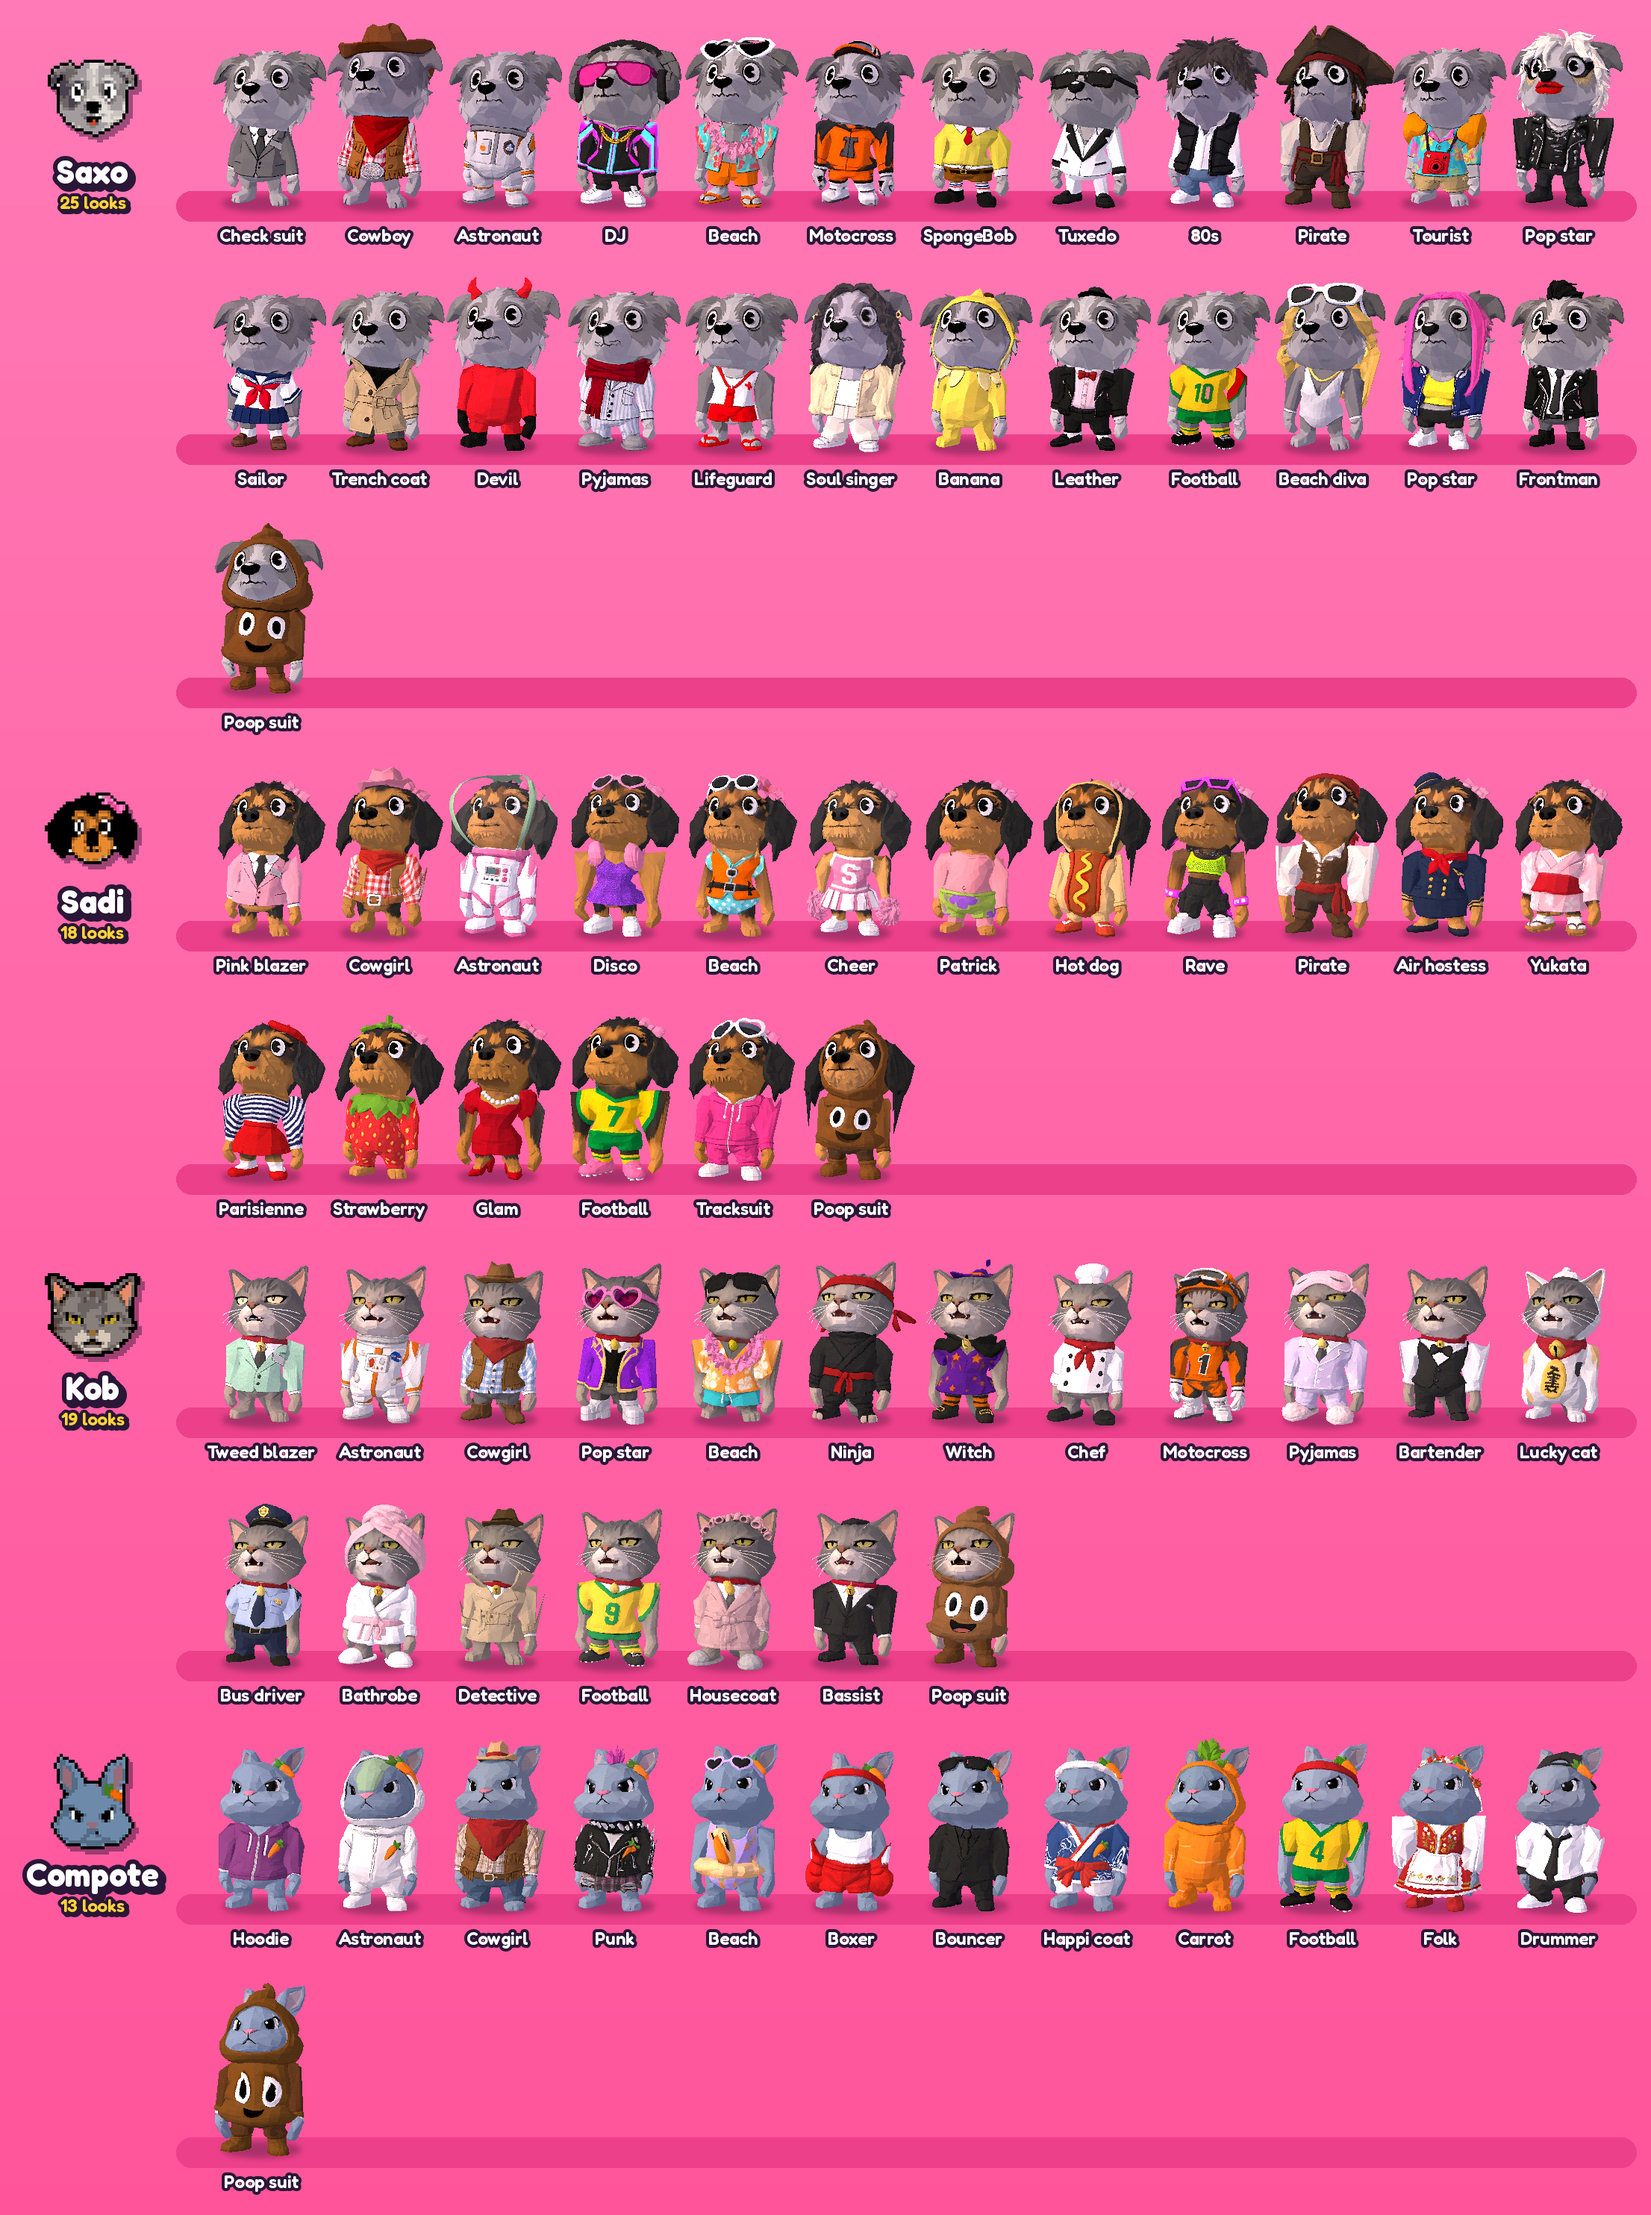
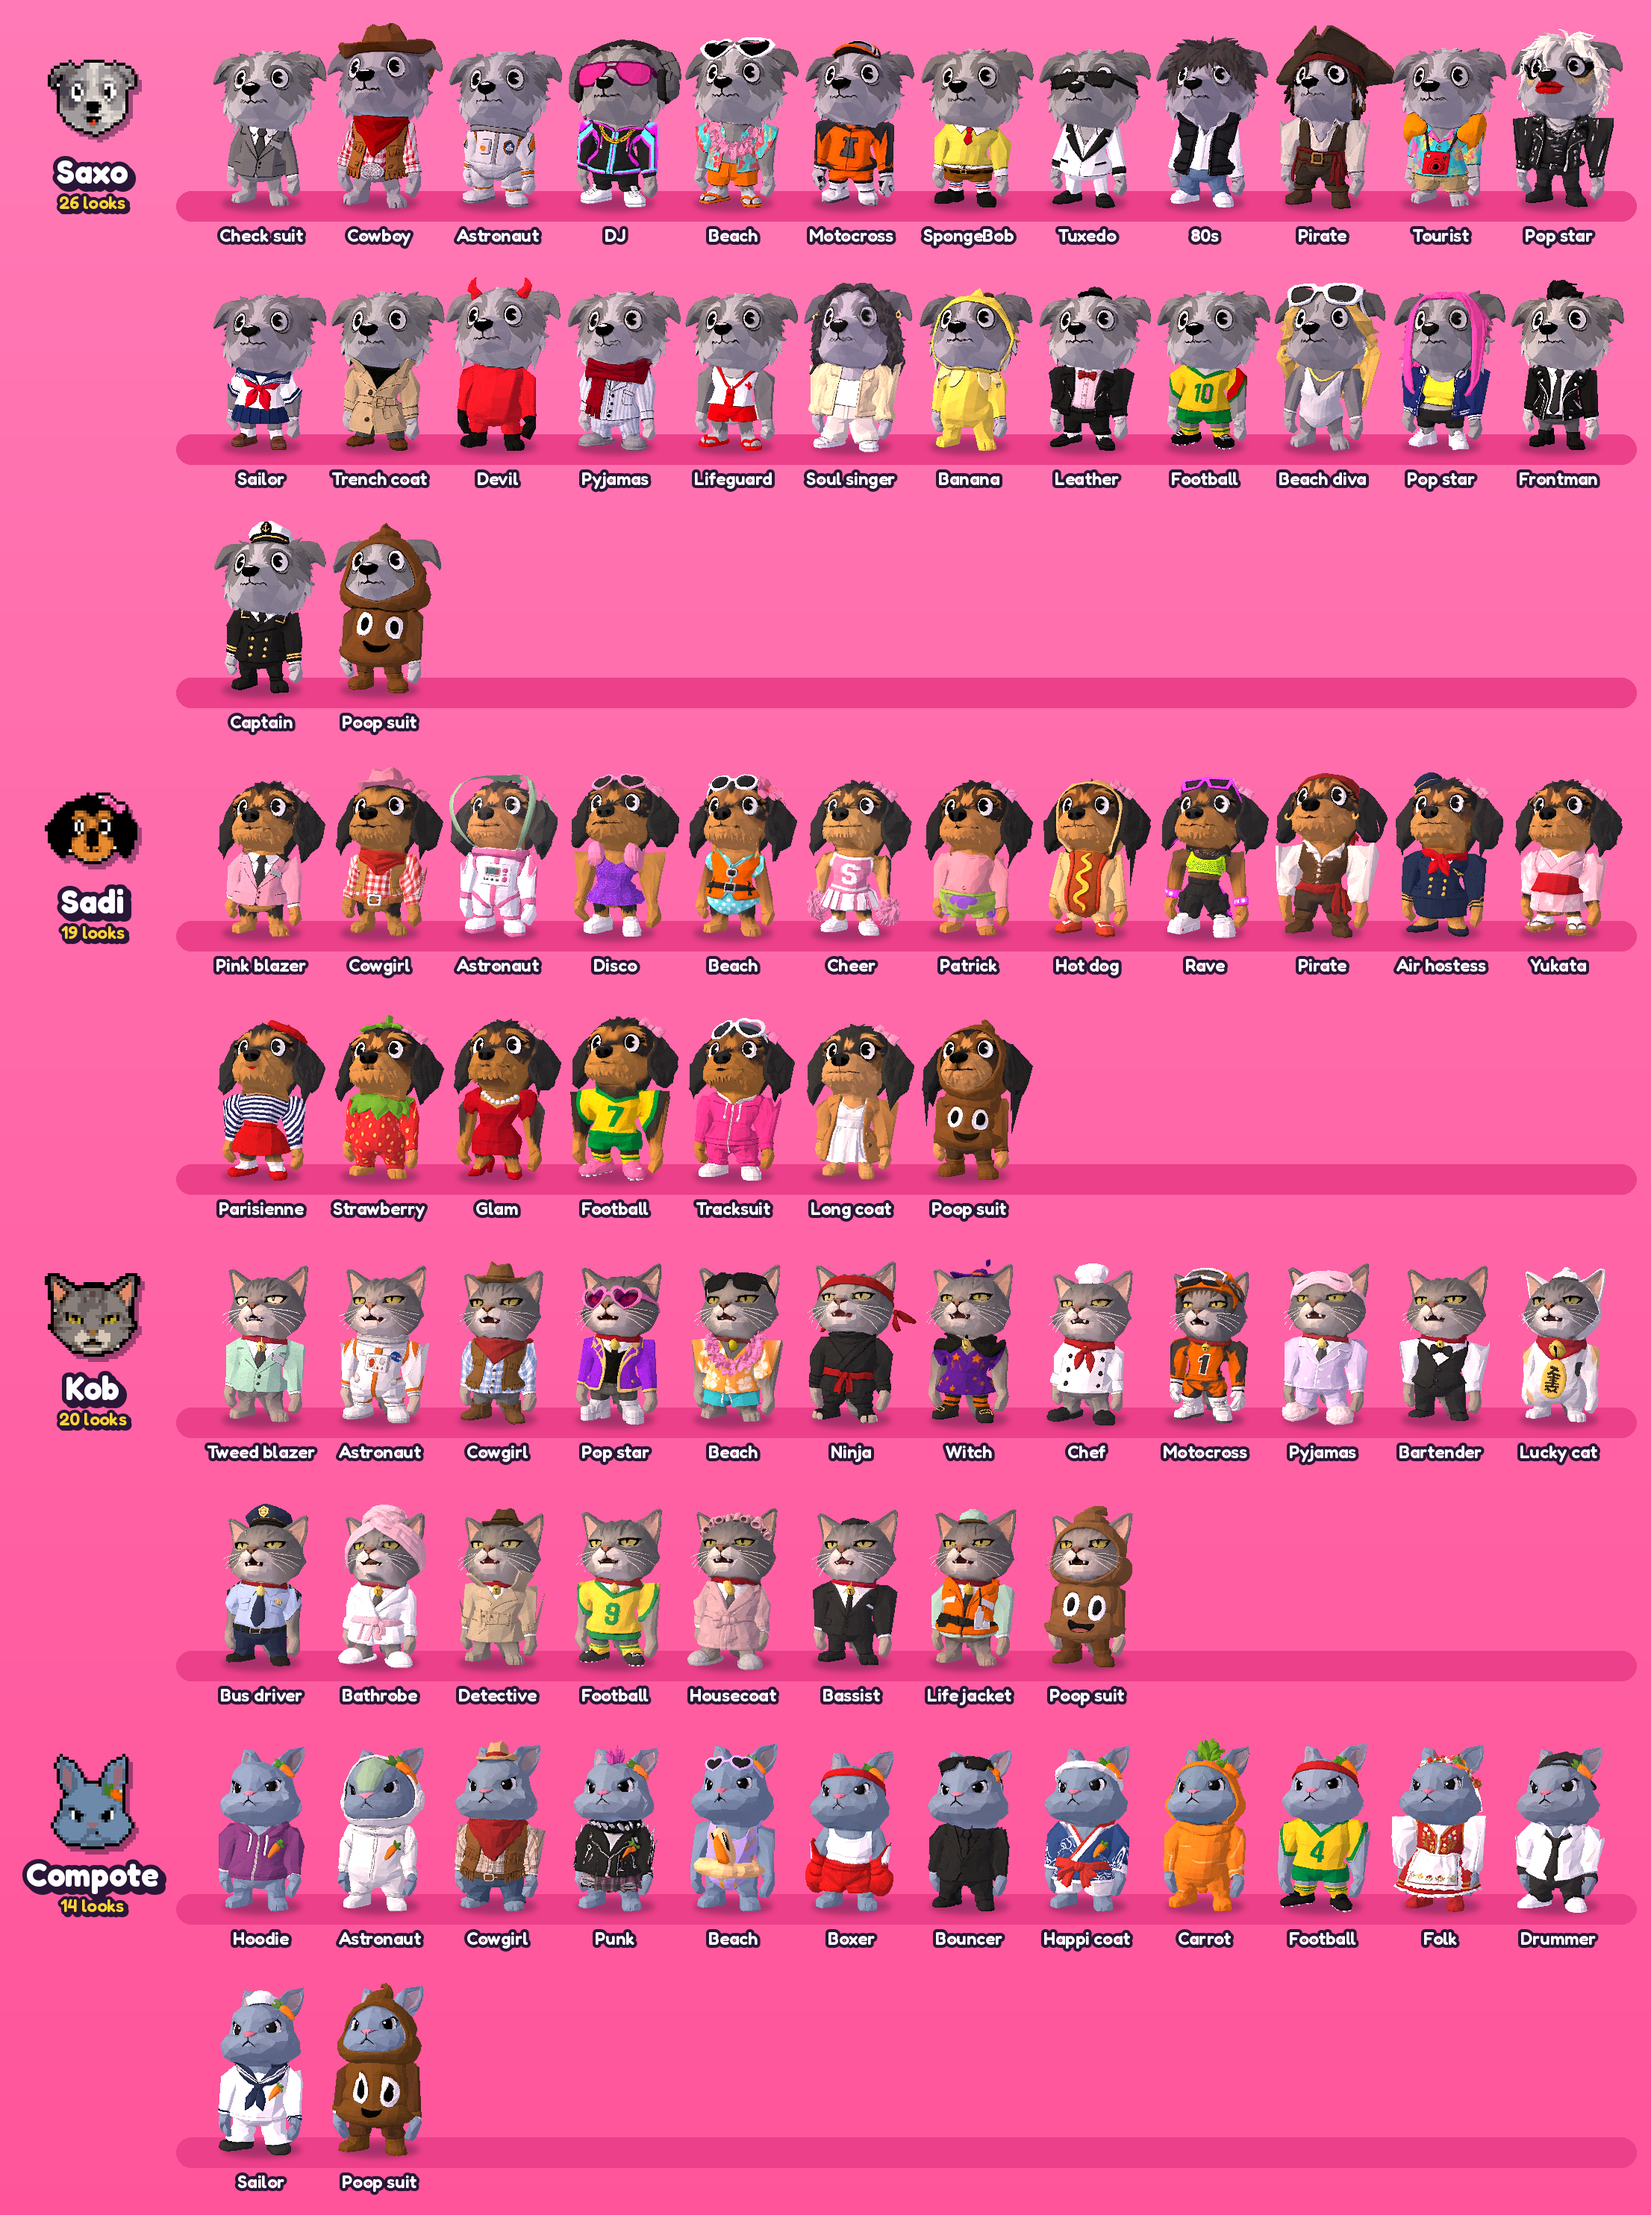
Sync with cbf356f: docs(readme): the SWIM looks in the wardrobe, the schooner in the text

diff --git a/README.md b/README.md
@@ -88,7 +88,7 @@
 </table>
 
 <p align="center">
-  <img src="docs/readme/wardrobe.png" width="100%" alt="The wardrobe: every look of Saxo, Sadi, Kob and Compote, from cowboy and astronaut to SpongeBob, a white tuxedo, Kob's pyjamas, the pirates, the tourist, the air hostess, a pop-star disguise, Kob the bartender, a sailor uniform, a yukata, a lucky-cat suit, a happi coat, a trench coat, a Parisienne, a bus driver, sick-day pyjamas, a devil suit, a lifeguard, a bathrobe, a soul singer, a banana, a strawberry, a carrot, a leather jacket, Kob the private eye, a sequin dress, the team's football kit and the poop suit">
+  <img src="docs/readme/wardrobe.png" width="100%" alt="The wardrobe: every look of Saxo, Sadi, Kob and Compote, from cowboy and astronaut to SpongeBob, a white tuxedo, Kob's pyjamas, the pirates, the tourist, the air hostess, a pop-star disguise, Kob the bartender, a sailor uniform, a yukata, a lucky-cat suit, a happi coat, a trench coat, a Parisienne, a bus driver, sick-day pyjamas, a devil suit, a lifeguard, a bathrobe, a soul singer, a banana, a strawberry, a carrot, a leather jacket, Kob the private eye, a sequin dress, the team's football kit, a ship's captain, a life jacket and the poop suit">
 </p>
 
 Each map dresses the cast for the occasion: astronaut suits on the moon, cowboy hats out west, SpongeBob and Patrick
@@ -97,14 +97,15 @@ in Bikini Bottom, a hot dog in the supermarket. The poop suit is never automatic
 ## 56 maps, and counting
 
 <p align="center">
-  <img src="docs/readme/maps.png" width="100%" alt="The maps, from the street, club and moon to Tokyo, Paris, the yacht, the techno club, the treasure cave, the black ship, the plane, the chapel club, the desert village, the blossom festival, the pier at dusk, the night bus, a house party, a hospital ward, a water park, a radio studio, a fruits-only warehouse party, a film-noir night street, a cup final under the floodlights, a tiny Earth in space, a baobab on the savanna, a Spanish beach, a grey housing estate, a desert stage, a band trailer and a pink childhood bedroom, each with the cast in costume">
+  <img src="docs/readme/maps.png" width="100%" alt="The maps, from the street, club and moon to Tokyo, Paris, the yacht, the techno club, the treasure cave, the black ship, the plane, the chapel club, the desert village, the blossom festival, the pier at dusk, the night bus, a house party, a hospital ward, a water park, a radio studio, a fruits-only warehouse party, a film-noir night street, a cup final under the floodlights, a tiny Earth in space, a baobab on the savanna, a Spanish beach, a grey housing estate, a desert stage, a band trailer, a pink childhood bedroom and a schooner that sinks, each with the cast in costume">
 </p>
 
 Every map is built from primitives in [`src/maps*.js`](src/) and animated as a pure function of time, mostly on the
 beat; each episode adds one to three for its story. The club floor flashes, a subway train passes every 16 beats, a
 locker bangs open every bar, the volcano erupts, the bowling ball strikes every two bars, in Paris the fountains fire
-on the beat while the Eiffel Tower sparkles on each bar, and the techno club's ceiling net lets its balloons go on the
-drop.
+on the beat while the Eiffel Tower sparkles on each bar, the techno club's ceiling net lets its balloons go on the
+drop, and the schooner sinks: the sea rises over its deck and everything under it turns blue, down to a camera among
+the fish.
 
 ## How a video gets made
 
